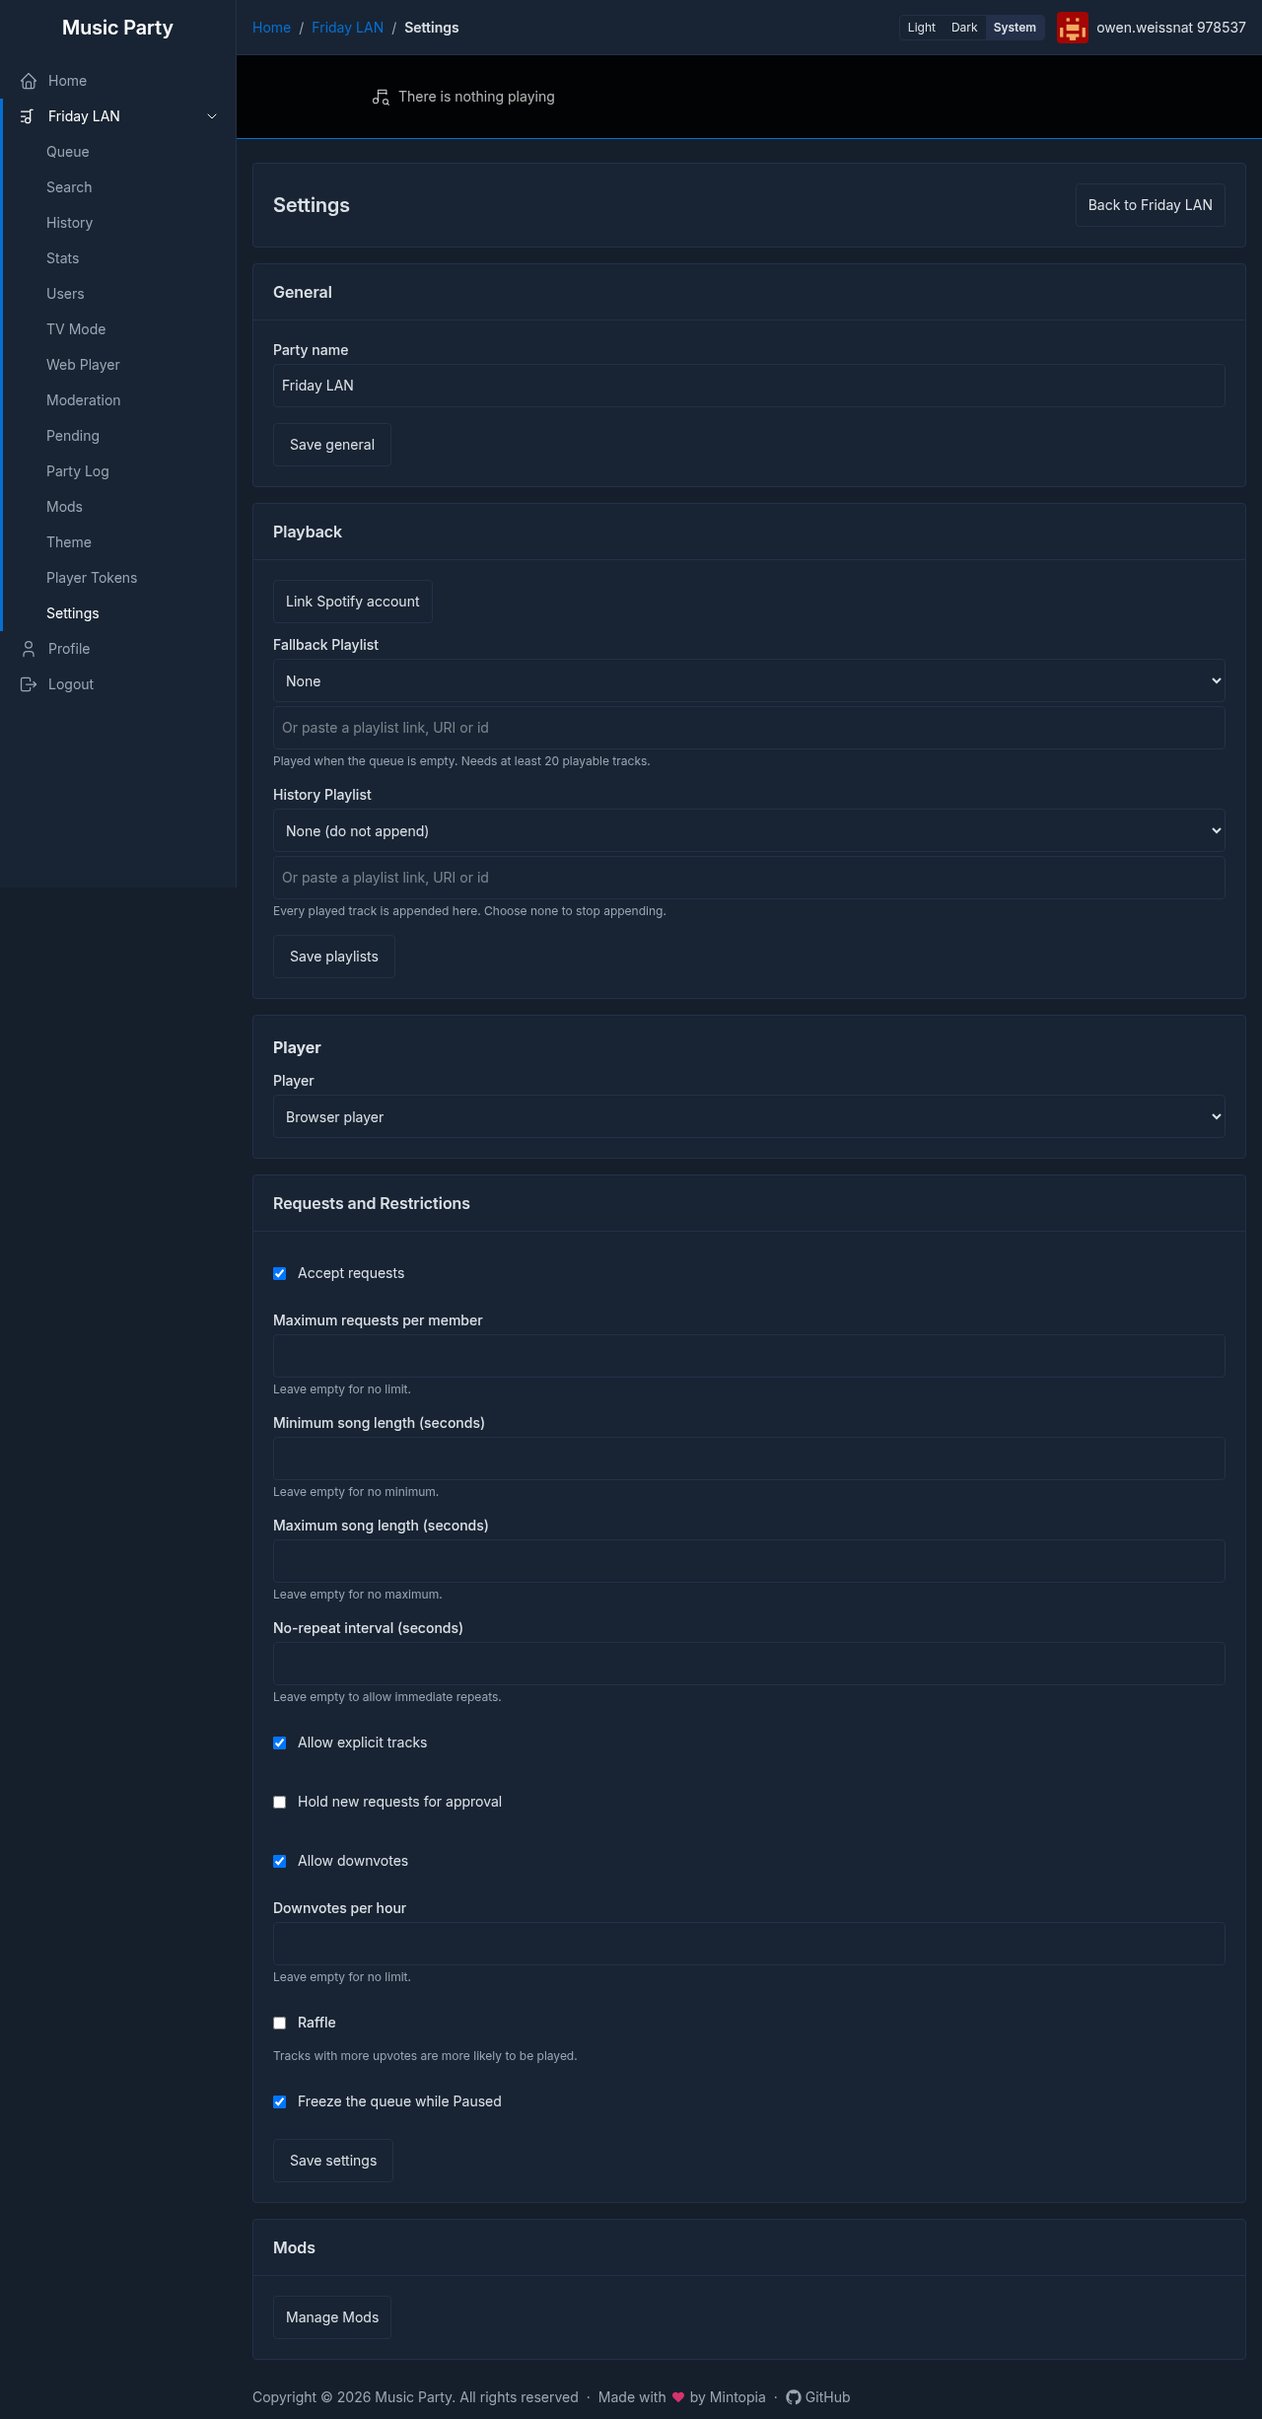
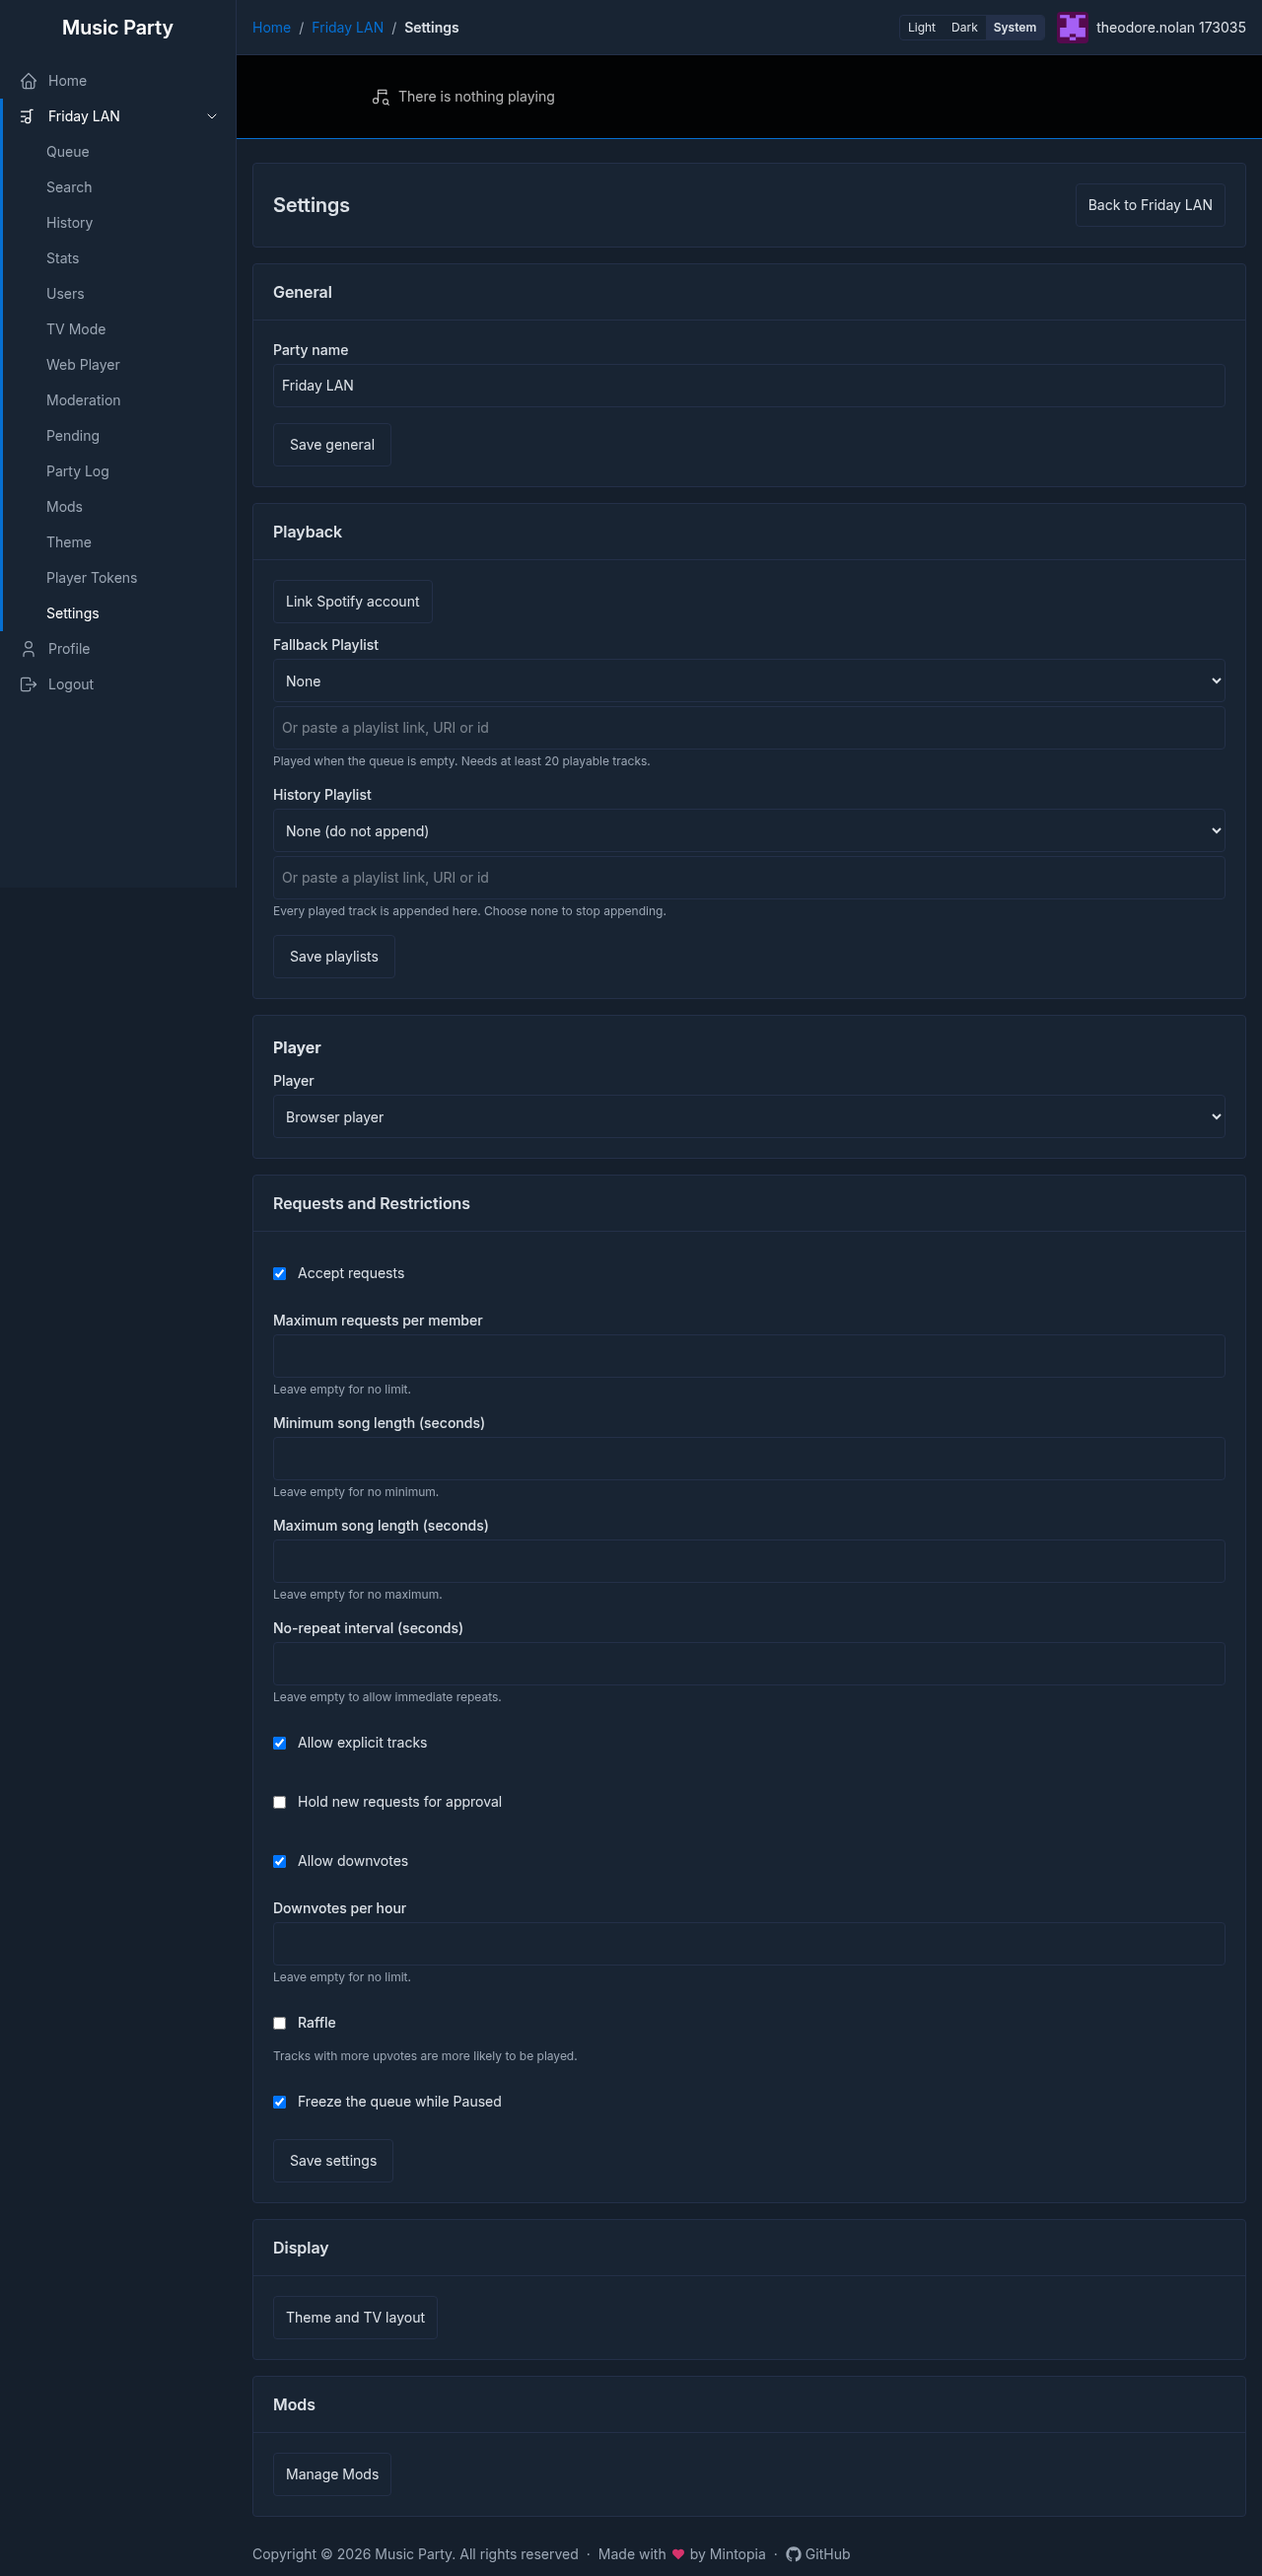
Add Display section to Party settings with theme link and optional QR code toggle

diff --git a/resources/js/pages/Party/Settings.vue b/resources/js/pages/Party/Settings.vue
@@ -11,6 +11,7 @@ const props = defineProps({
     settings: {type: Object, required: true},
     enabled_mods: {type: Array, default: () => []},
     mods_url: {type: String, default: null},
+    theme_url: {type: String, default: null},
     spotify_link_url: {type: String, default: null},
     playlists: {type: Array, default: () => []},
     fallback_playlist_id: {type: String, default: null},
@@ -36,6 +37,16 @@ const generalForm = useForm({
 
 const saveGeneral = () => {
     generalForm.patch(`/parties/${props.party.code}`, {preserveScroll: true});
+};
+
+const displayForm = useForm({
+    show_qrcode: props.settings.show_qrcode ?? true,
+});
+
+const hasQrCodeSetting = props.settings.show_qrcode !== undefined;
+
+const saveDisplay = () => {
+    displayForm.patch(`/parties/${props.party.code}`, {preserveScroll: true});
 };
 
 const form = useForm({
@@ -263,6 +274,31 @@ const numberFields = [
                 >Save settings</button>
             </div>
         </form>
+        </Card>
+
+        <Card data-testid="display-section">
+            <template #header>Display</template>
+            <form class="flex flex-col gap-4" data-testid="display-form" @submit.prevent="saveDisplay">
+                <label v-if="hasQrCodeSetting" class="flex min-h-11 items-center gap-3 text-sm">
+                    <input v-model="displayForm.show_qrcode" type="checkbox" data-testid="setting-show_qrcode">
+                    <span>Show the QR code and join link on the TV</span>
+                </label>
+                <div class="flex flex-wrap gap-3">
+                    <button
+                        v-if="hasQrCodeSetting"
+                        type="submit"
+                        :disabled="displayForm.processing"
+                        data-testid="display-save"
+                        class="min-h-11 rounded border border-border px-4 text-sm hover:text-primary disabled:opacity-50"
+                    >Save display</button>
+                    <Link
+                        v-if="theme_url"
+                        :href="theme_url"
+                        data-testid="theme-link"
+                        class="inline-flex min-h-11 items-center rounded border border-border px-3 text-sm hover:text-primary"
+                    >Theme and TV layout</Link>
+                </div>
+            </form>
         </Card>
 
         <Card v-if="mods_url" data-testid="mods-section">

diff --git a/resources/js/__tests__/PartySettings.test.js b/resources/js/__tests__/PartySettings.test.js
@@ -24,6 +24,7 @@ const mountSettings = (settings = {}) => mount(Settings, {
     props: {
         party: {code: 'FRI1', name: 'Friday'},
         mods_url: '/parties/FRI1/mods',
+        theme_url: '/parties/FRI1/theme',
         settings: {
             allow_requests: true, max_requests: null, min_song_length: null, max_song_length: null,
             explicit: true, hold_requests: false, no_repeat_interval: null,
@@ -50,5 +51,17 @@ describe('Party settings page', () => {
 
         expect(wrapper.find('[data-testid="raffle-hint"]').text()).toBe('Tracks with more upvotes are more likely to be played.');
         expect(wrapper.find('[data-testid="mods-link"]').attributes('href')).toBe('/parties/FRI1/mods');
+    });
+
+    it('shows the Display section with the theme link and the QR code toggle only when the setting exists', () => {
+        const without = mountSettings();
+
+        expect(without.find('[data-testid="display-section"]').exists()).toBe(true);
+        expect(without.find('[data-testid="theme-link"]').attributes('href')).toBe('/parties/FRI1/theme');
+        expect(without.find('[data-testid="setting-show_qrcode"]').exists()).toBe(false);
+
+        const withQr = mountSettings({show_qrcode: true});
+
+        expect(withQr.find('[data-testid="setting-show_qrcode"]').exists()).toBe(true);
     });
 });

diff --git a/tests/Feature/Party/PartySettingsPageTest.php b/tests/Feature/Party/PartySettingsPageTest.php
@@ -107,7 +107,8 @@ it('exposes the restriction settings and mods link on the settings page', functi
             ->has('settings', fn (Assert $s) => $s
                 ->has('downvotes')->has('downvotes_per_hour')->has('selection_mode')->has('freeze_when_paused')
                 ->etc())
-            ->where('mods_url', route('parties.mods', ['party' => 'ABCD'], false)));
+            ->where('mods_url', route('parties.mods', ['party' => 'ABCD'], false))
+            ->where('theme_url', route('parties.theme.show', ['party' => 'ABCD'], false)));
 });
 
 it('lets the host change each restriction setting and logs old and new', function (string $key, mixed $old, mixed $new) {

diff --git a/app/Http/Controllers/PartyController.php b/app/Http/Controllers/PartyController.php
@@ -234,6 +234,7 @@ class PartyController extends Controller
                 'freeze_when_paused' => (bool) $party->freeze_when_paused,
             ],
             'mods_url' => route('parties.mods', $party, false),
+            'theme_url' => route('parties.theme.show', $party, false),
             'playlists' => $playlists,
             'fallback_playlist_id' => $party->fallback_playlist_id,
             'history_playlist_id' => $party->history_playlist_id,
